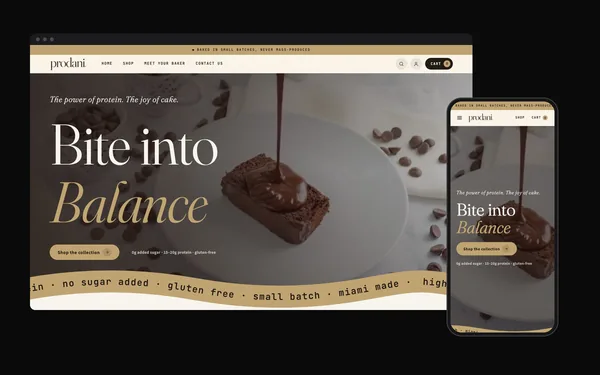
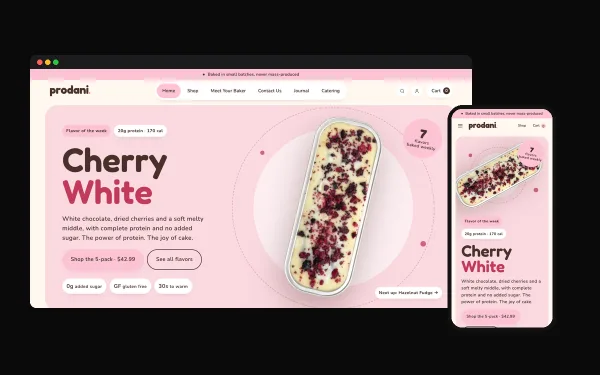
Prodani case study: reshoot hero, long band and previews on the Rounded theme
The earlier commit swapped the before/after pairs but left the Hero detail
tile (also the og:image), the scrolling band and the index preview mockup
on the old champagne theme. All five files reshot from the live store on
3 Nov 2026 at the house sizes; hero alt text updated.

diff --git a/.audit/rules.md b/.audit/rules.md
@@ -177,3 +177,4 @@ Moved out of CLAUDE.md on 2026-10-20 (150k-char limit). CLAUDE.md keeps a one-li
 - **A first-screen entrance never starts the LCP element at `opacity: 0` (SEO audit, 2026-10-27).** PageSpeed mobile put all four service worlds at LCP 6.8-7.9s against 3.5-4.4s elsewhere; the LCP element was the hero `h1` (on Web and AI phones, the lede), and its render delay was 3.2s on a 26ms TTFB. The shared `wh-rise` keyframe faded the title and lede in from `opacity: 0`, and Chrome does not count an invisible paint, so LCP waited for the fade. A/B on the local build: removing the fade closed the LCP-FCP gap on all four (brand 5.6s → 4.7s, web 6.3/7.2 → 5.3/5.3). Fix keeps the motion: `wh-rise-solid` (translate only) for `__title` and `__lede` in `_worldHero.scss`. Rule: in any hero entrance, the largest text block rises or slides, never fades; check the LCP element with PageSpeed's `lcp-breakdown-insight` (desktop and phone pick different elements). Lab only: the site is below CrUX's traffic threshold, so no field data exists to confirm.
 
 - **Every public page carries the visit beacon, static pages included (2026-10-30).** `/unhurried-pro/` and its thank-you page are plain HTML under `public/`, outside the React app, so they never loaded `ga.js` or `visitLog.js`: zero script tags live for five weeks, Netlify Analytics is disabled on the site, and the only trace of the Pro page was 3 views of `/shop`. Fix: `public/unhurried-pro/visit.js` (the app's beacon as plain JS: same host check and `?visits=off` opt-out, forwards only `utm_*` query keys so the Stripe session id on the thank-you page stays in the browser) loaded before `</body>` on both pages. Verify: `curl -s https://switchcasestudio.com/unhurried-pro/ | grep -c visit.js` prints 1 and `npm run visits` lists `/unhurried-pro/` within a week. Second lesson: WordPress.org approved Unhurried on 2026-10-09 and nobody noticed until 10-30 because the only signal was an email; `api.wordpress.org/stats/themes/1.0/downloads.php?slug=unhurried` answers from a shell, so a ticket that waits on a third party names the URL to poll.
+- **A client redesign refreshes EVERY image a project record points at, not just the comparison pairs.** (Prodani Rounded theme, 2026-11-03, owner: "the old design is shown on the website in some places".) The 11-03 commit replaced `comparisons[]` and left `imageSrc` (Hero detail tile + og:image), `longWeb` + `long-700.webp` (the scrolling band) and `preview` + `preview-600.webp` (the /projects and home index mockups) on the old theme. After a redesign, `grep` the project's folder against its record and reshoot all five. Capture notes: the first headless Chrome launch after a Chrome update can take ~75s to expose its debug port (wait up to 150s); a 14,000px page shot in one `captureScreenshot` came back tiled, so shoot 2,000px slices, hide fixed/sticky elements after the first, stitch, then look for scroll-pinned sections shot twice at a slice seam and cut them.

diff --git a/CLAUDE.md b/CLAUDE.md
@@ -78,6 +78,7 @@ Full text, evidence and verification steps: **`.audit/rules.md`**. Read the matc
 - Never write VPS specifics (paths, hosts, IPs, ports) into this file or `.audit/`: both are public.
 
 **Index:**
+- A client redesign reshoots every image the project record names (hero, long band + 700w, preview + 600w), not only the comparison pairs (Prodani, 2026-11-03).
 - Every service-page frame shows itself (owner, 2026-11-01: "an initial movement should happen in front of the user's eyes"; a pulse read as nothing moving): `worlds/tryHint.js` works a frame's real controls through React, capped at 5 s (WCAG 2.2.2), then resets; a real press, key or focus stops that frame for good. A new control type gets a step in `stepsFor`. Pinned states are driven by `ProcessStage` scroll progress.
 - Every public page carries the visit beacon, static ones included (2026-10-30): `/unhurried-pro/` had no script tag for five weeks, so its traffic was unknowable; a static page under `public/` loads `/unhurried-pro/visit.js` (the app's `visitLog.js` as plain JS, `utm_*` keys only) before `</body>`. A ticket that waits on a third party names a URL to poll: WordPress.org approved Unhurried on 10-09 and the launch checklist sat three weeks.
 - A hero's largest text never fades in from `opacity: 0` (SEO audit, 2026-10-27): Chrome skips invisible paints, so the fade held the service worlds' mobile LCP back 1-3s; `__title` and `__lede` rise with `wh-rise-solid` (translate only). Real Google data (Search Console, GA4, PageSpeed) runs through the `claude-seo` plugin; report in `.audit/seo-audit-2026-10-27.md`.

diff --git a/.audit/summary.md b/.audit/summary.md
@@ -355,3 +355,4 @@ Entries from 2026-05 to 2026-10-09 (phases 1–4, design refresh, repositioning,
 - Owner: the studio was banned from X. Removed from `src/data/social.js` (footer) and the `sameAs` mirror in `index.html`.
 - `public/email-signature/` holds the Gmail signature's images (polaroid GIF, wordmark, 5 icons, Zahav banner). Do not rename them: sent emails point at these URLs forever.
 - **Open:** signature not installed yet; waits on phone number, title and Google review link. X is also listed on any outside profile that links to it, not checked.
+- 2026-11-03: Prodani case study images reshot on the live Rounded theme: hero detail/og:image, long band + 700w, index preview mockup + 600w; hero alt updated. The `comparisons[]` pairs from the earlier commit already showed it. Description text still says "calm champagne palette" (that describes v2, which the figures measure); owner to decide.
